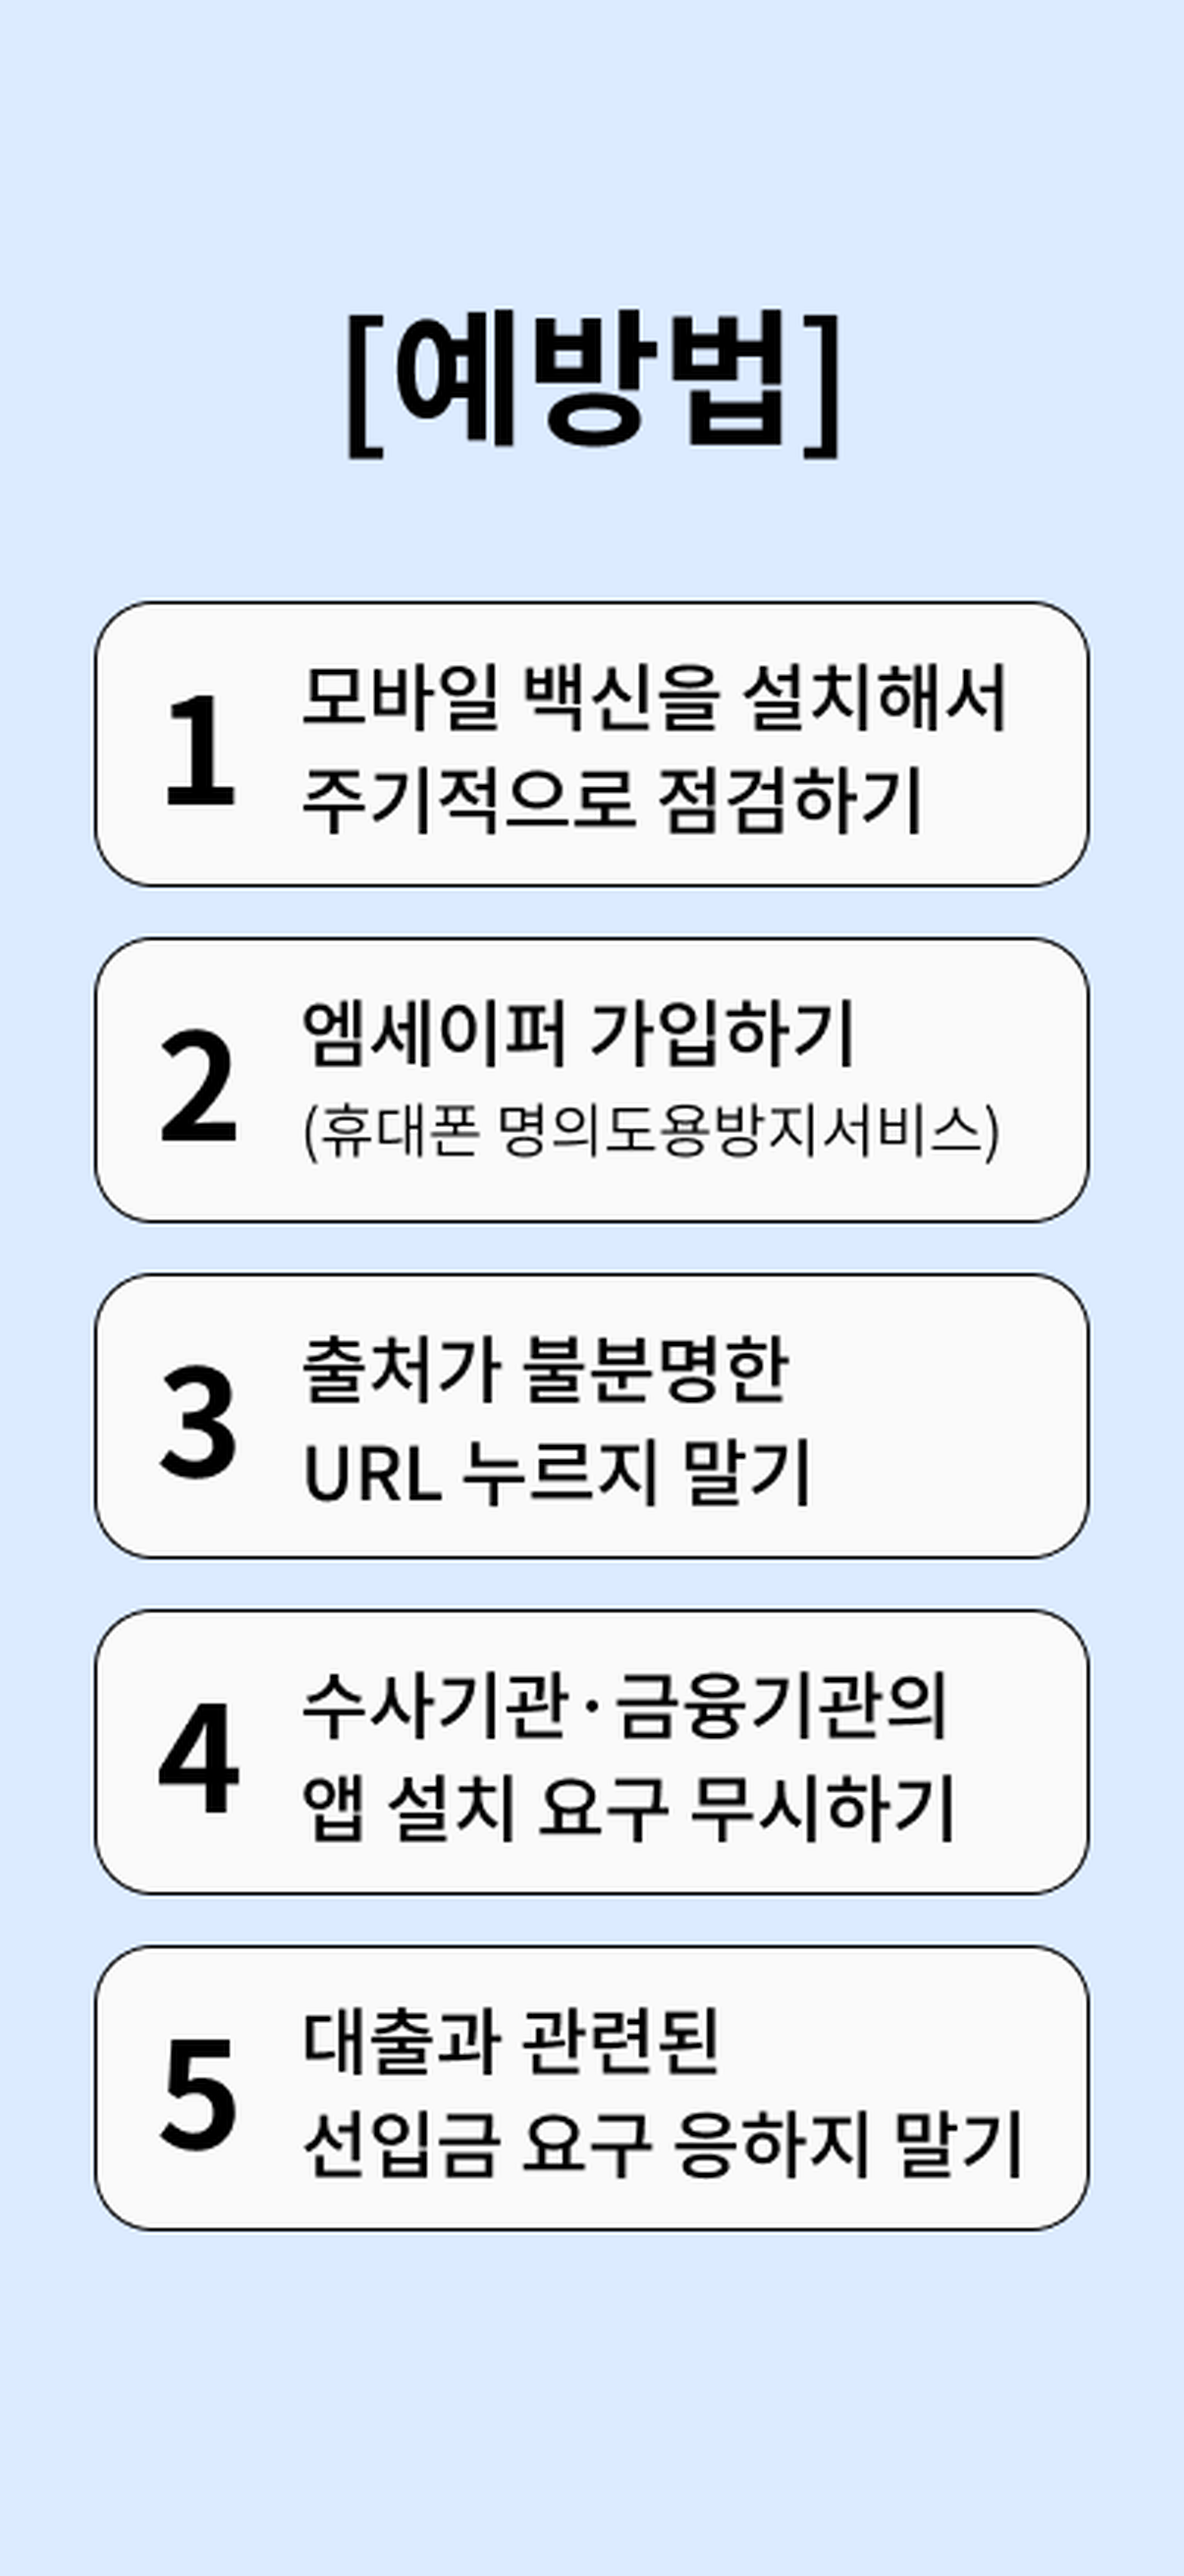
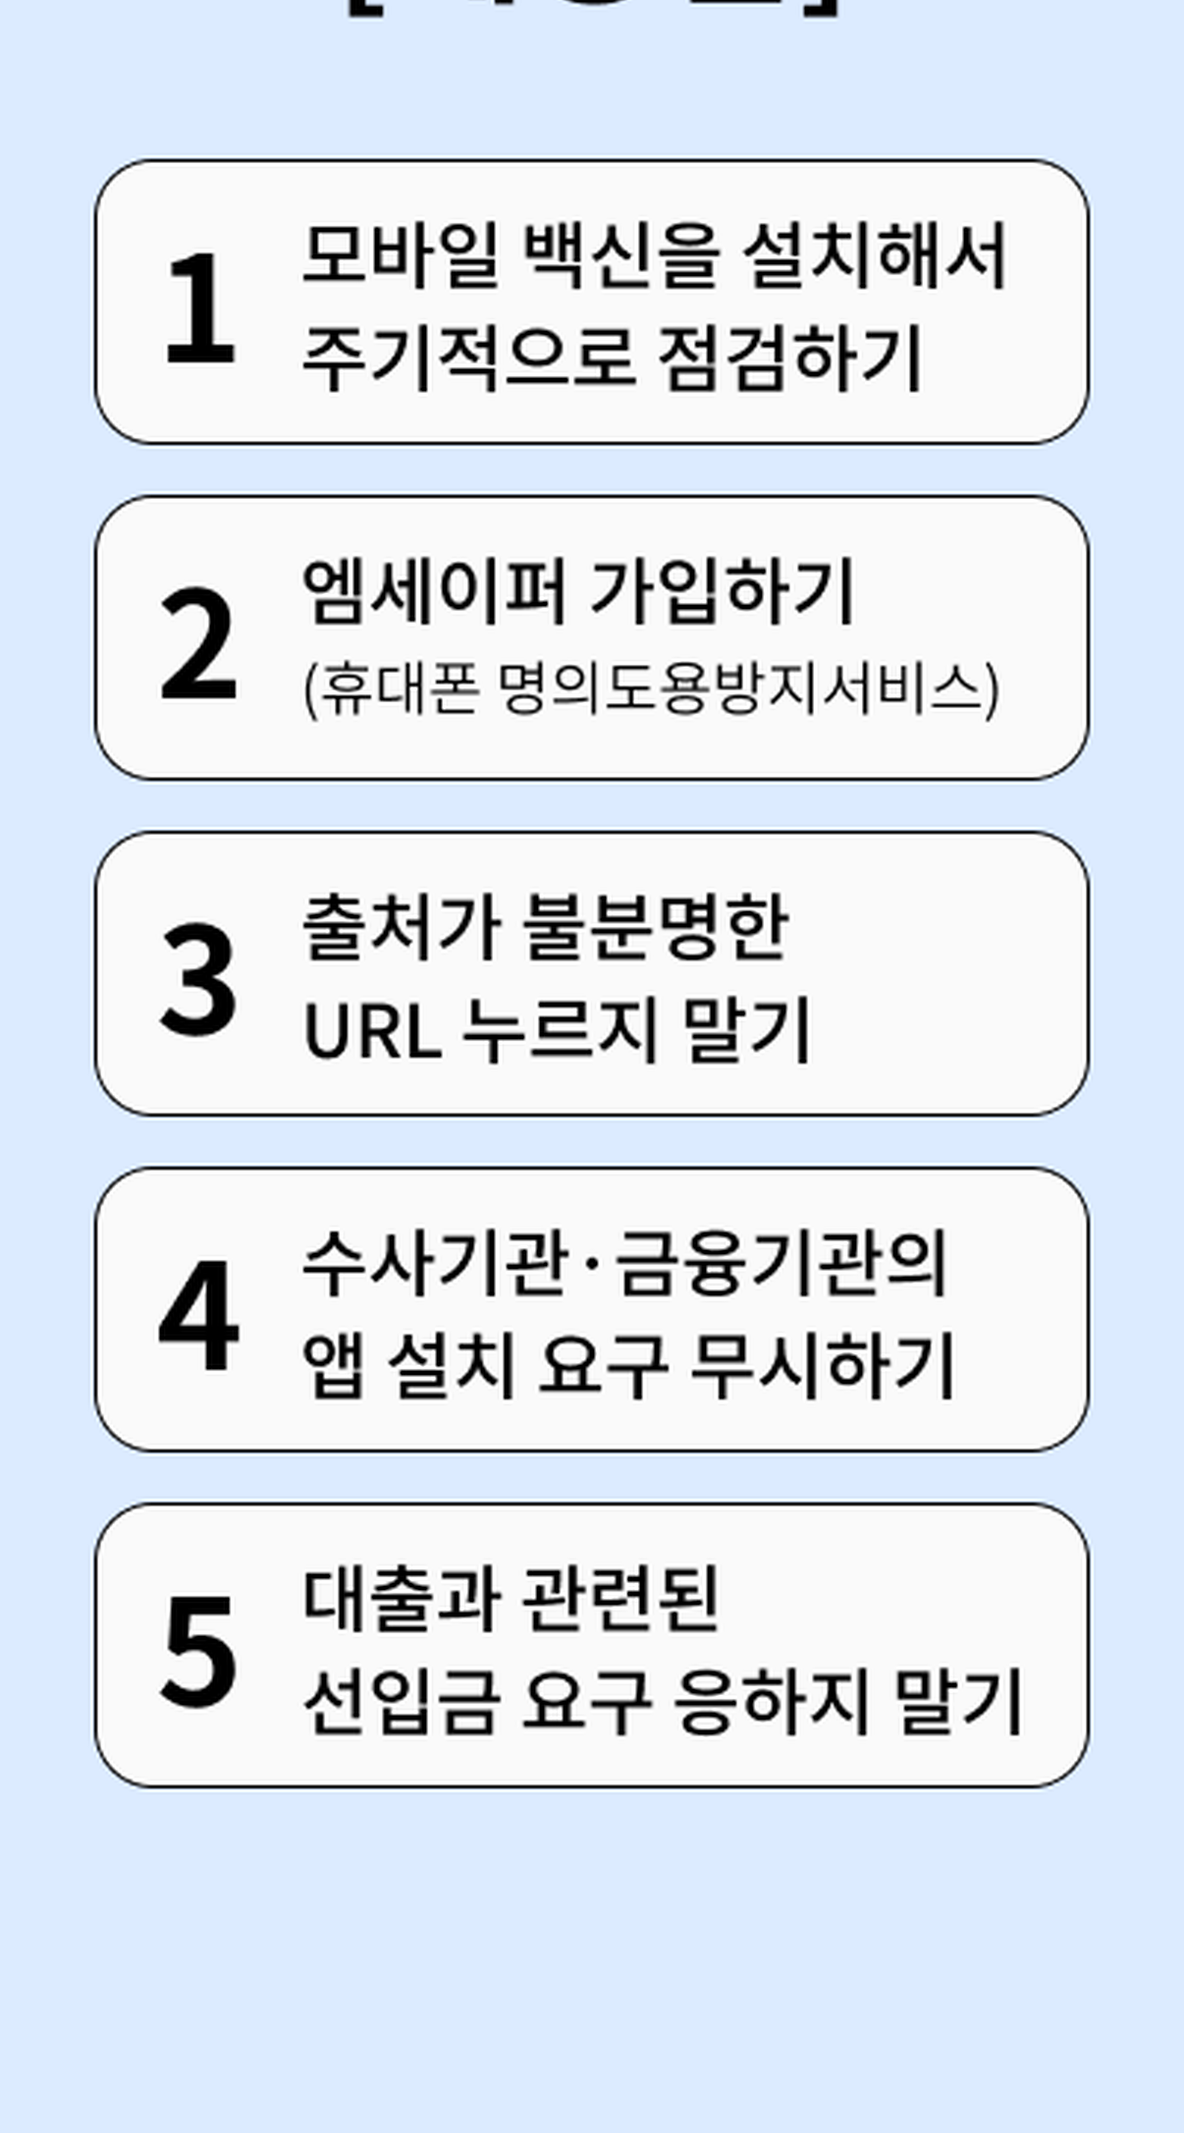
Add files via upload

diff --git a/prevention.html b/prevention.html
@@ -7,7 +7,7 @@
 <meta name="theme-color" content="#003478">
 <link rel="manifest" href="manifest.json">
 <link rel="icon" href="assets/icons/icon-192.png">
-<link rel="stylesheet" href="css/style.css?v=12">
+<link rel="stylesheet" href="css/style.css?v=13">
 </head>
 <body>
 <div class="screen">
@@ -18,10 +18,10 @@
     </a>
   </div>
 
-  <div class="screen-shot-wrap top-align">
+  <div class="screen-shot-wrap">
     <img id="shotImg" src="assets/screens/prevention.png" alt="예방법">
     <div class="hotspot-layer" id="hotspotLayer">
-      <button class="listen-btn-overlay" style="left:7.96%;top:88.56%;width:83.83%;height:10.98%" data-audio="assets/audio/prevention-desc.mp3" data-status-for="playStatus" aria-label="예방법 음성으로 듣기">
+      <button class="listen-btn-overlay" style="left:7.96%;top:86.19%;width:83.83%;height:13.26%" data-audio="assets/audio/prevention-desc.mp3" data-status-for="playStatus" aria-label="예방법 음성으로 듣기">
         <svg viewBox="0 0 24 24" fill="none" stroke="currentColor" stroke-width="2" stroke-linecap="round" stroke-linejoin="round">
           <path d="M11 5L6 9H2v6h4l5 4V5z"/><path d="M15.5 8.5a5 5 0 010 7"/><path d="M18.5 5.5a9 9 0 010 13"/>
         </svg>
@@ -32,7 +32,7 @@
 
   <p class="play-status" id="playStatus"></p>
 </div>
-<script src="js/app.js?v=12"></script>
+<script src="js/app.js?v=13"></script>
 <script>
   document.querySelectorAll('[data-audio]').forEach(setupAudioButton);
   syncHotspotLayer(document.getElementById('shotImg'), document.getElementById('hotspotLayer'));

diff --git a/type.html b/type.html
@@ -7,7 +7,7 @@
 <meta name="theme-color" content="#003478">
 <link rel="manifest" href="manifest.json">
 <link rel="icon" href="assets/icons/icon-192.png">
-<link rel="stylesheet" href="css/style.css?v=12">
+<link rel="stylesheet" href="css/style.css?v=13">
 </head>
 <body>
 <div class="screen">
@@ -26,8 +26,8 @@
   <p class="play-status" id="playStatus"></p>
 </div>
 
-<script src="js/types-data.js?v=12"></script>
-<script src="js/app.js?v=12"></script>
+<script src="js/types-data.js?v=13"></script>
+<script src="js/app.js?v=13"></script>
 <script>
   const params = new URLSearchParams(location.search);
   const id = params.get('id');

diff --git a/index.html b/index.html
@@ -9,7 +9,7 @@
 <link rel="manifest" href="manifest.json">
 <link rel="icon" href="assets/icons/icon-192.png">
 <link rel="apple-touch-icon" href="assets/icons/icon-180.png">
-<link rel="stylesheet" href="css/style.css?v=12">
+<link rel="stylesheet" href="css/style.css?v=13">
 </head>
 <body>
 <div class="screen">
@@ -26,7 +26,7 @@
   </div>
 </div>
 
-<script src="js/app.js?v=12"></script>
+<script src="js/app.js?v=13"></script>
 <script>
   syncHotspotLayer(document.getElementById('shotImg'), document.getElementById('hotspotLayer'));
 </script>

diff --git a/fake-apps.html b/fake-apps.html
@@ -7,7 +7,7 @@
 <meta name="theme-color" content="#003478">
 <link rel="manifest" href="manifest.json">
 <link rel="icon" href="assets/icons/icon-192.png">
-<link rel="stylesheet" href="css/style.css?v=12">
+<link rel="stylesheet" href="css/style.css?v=13">
 </head>
 <body>
 <div class="screen">
@@ -22,6 +22,6 @@
     <img src="assets/screens/fake-apps.png" alt="실제 사칭앱 - 실제 신한은행 사칭앱 이미지">
   </div>
 </div>
-<script src="js/app.js?v=12"></script>
+<script src="js/app.js?v=13"></script>
 </body>
 </html>

diff --git a/detect-apps.html b/detect-apps.html
@@ -7,7 +7,7 @@
 <meta name="theme-color" content="#003478">
 <link rel="manifest" href="manifest.json">
 <link rel="icon" href="assets/icons/icon-192.png">
-<link rel="stylesheet" href="css/style.css?v=12">
+<link rel="stylesheet" href="css/style.css?v=13">
 </head>
 <body>
 <div class="screen">
@@ -27,7 +27,7 @@
   </div>
 </div>
 
-<script src="js/app.js?v=12"></script>
+<script src="js/app.js?v=13"></script>
 <script>
   syncHotspotLayer(document.getElementById('shotImg'), document.getElementById('hotspotLayer'));
 </script>

diff --git a/types.html b/types.html
@@ -7,7 +7,7 @@
 <meta name="theme-color" content="#003478">
 <link rel="manifest" href="manifest.json">
 <link rel="icon" href="assets/icons/icon-192.png">
-<link rel="stylesheet" href="css/style.css?v=12">
+<link rel="stylesheet" href="css/style.css?v=13">
 </head>
 <body>
 <div class="screen">
@@ -34,7 +34,7 @@
   </div>
 </div>
 
-<script src="js/app.js?v=12"></script>
+<script src="js/app.js?v=13"></script>
 <script>
   syncHotspotLayer(document.getElementById('shotImg'), document.getElementById('hotspotLayer'));
 </script>
